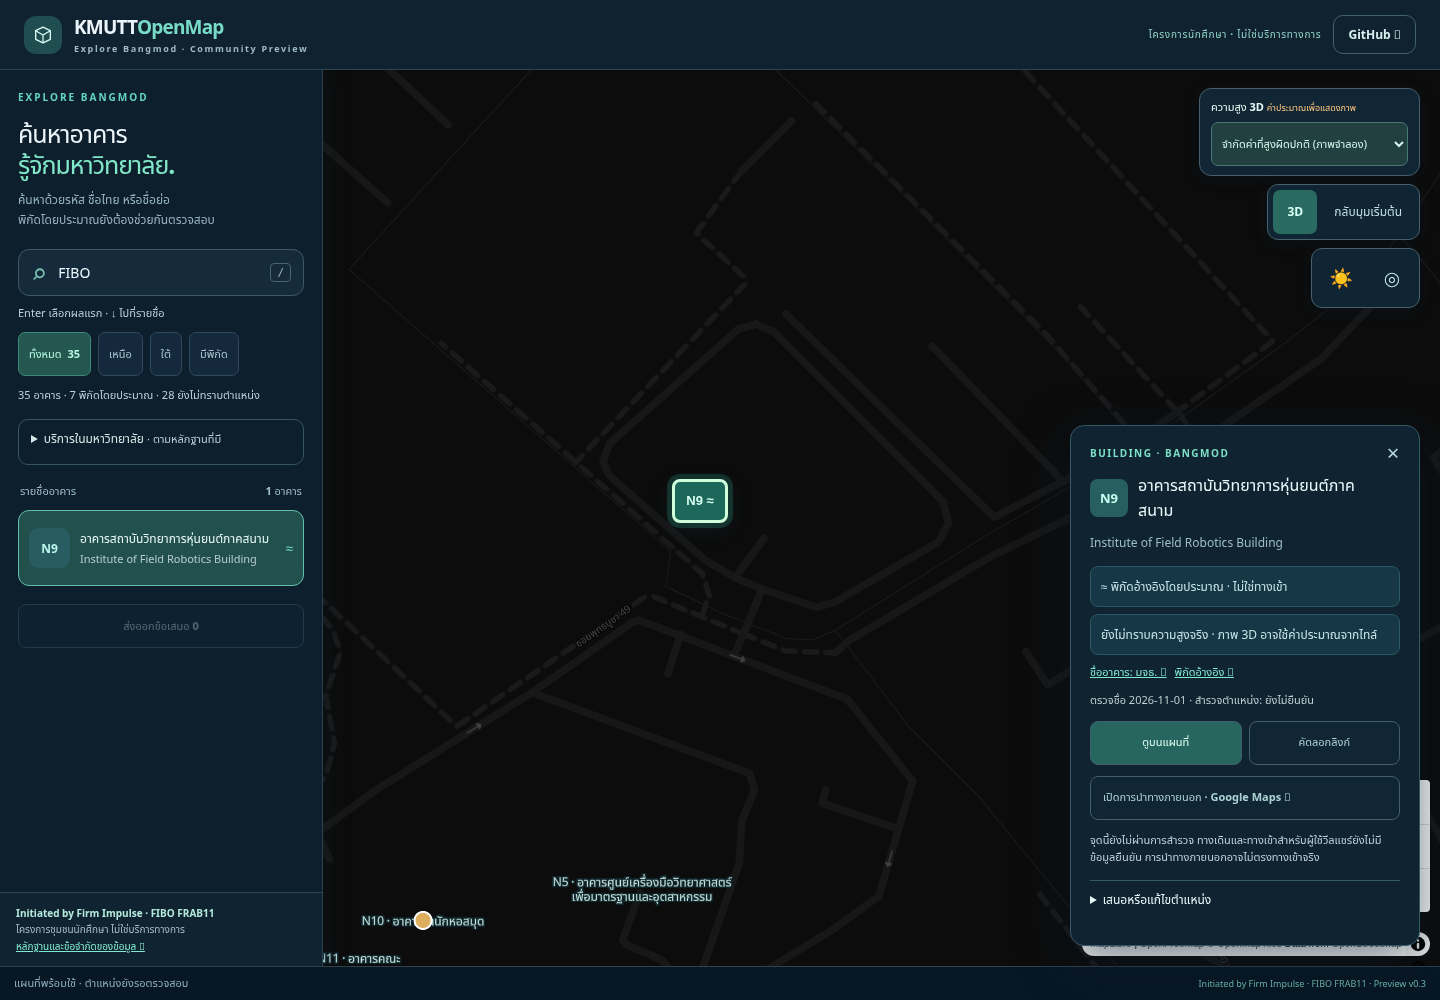
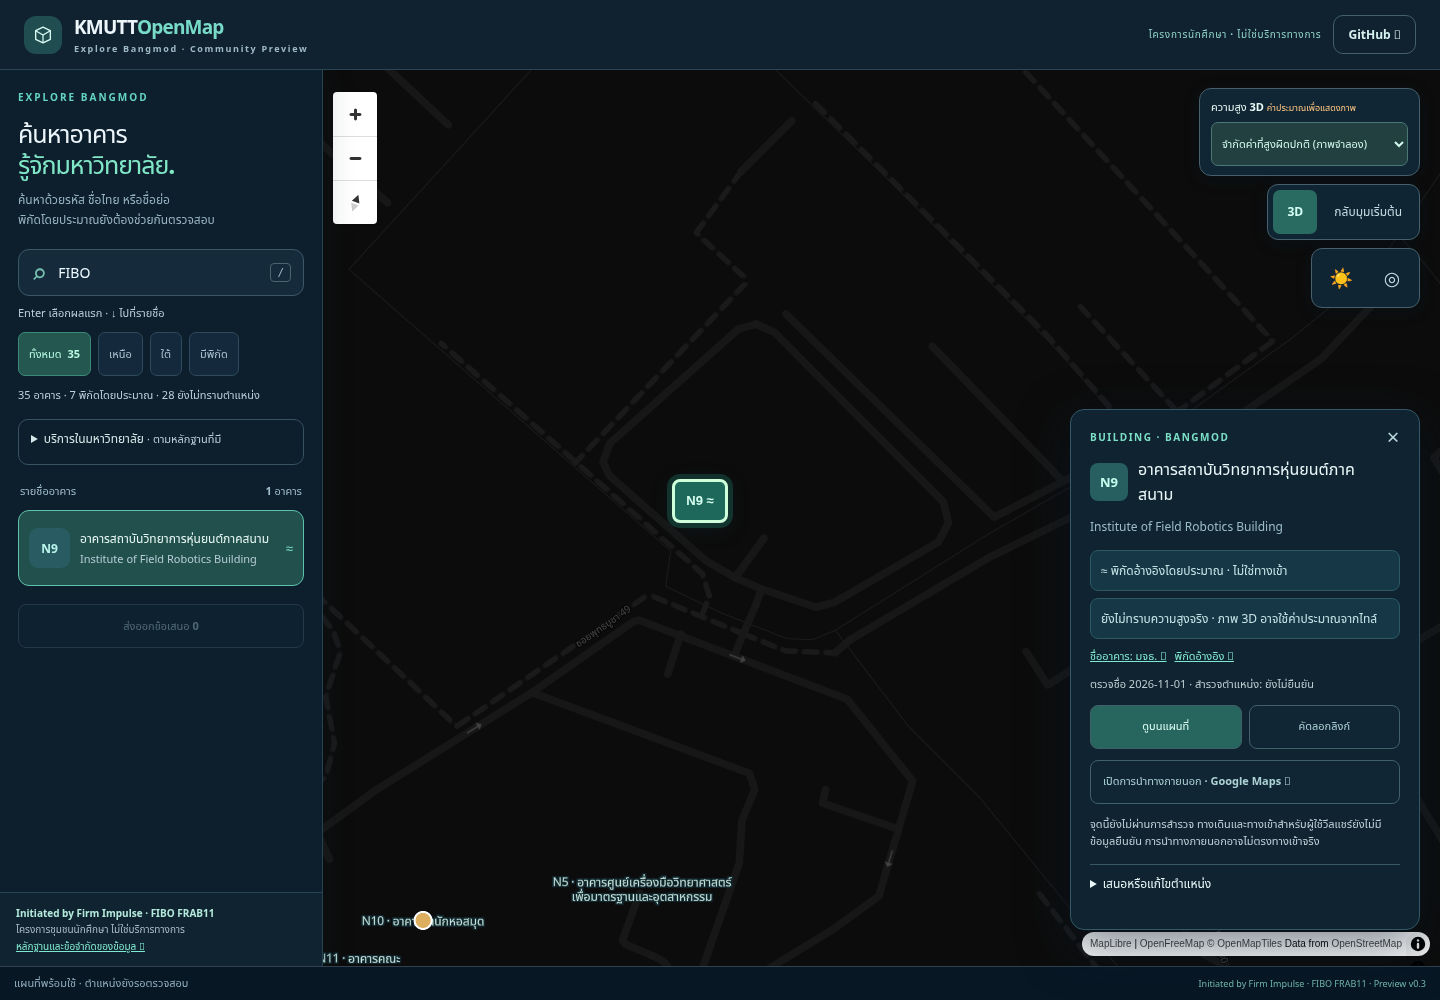
fix: keep map controls and attribution clear of detail panels

Changed region(s): [[0.7188, 0.403, 1.0, 0.961], [0.2188, 0.093, 0.2812, 0.248]]

diff --git a/src/styles.css b/src/styles.css
@@ -91,3 +91,8 @@ kbd{color:#9bb4c1;border:1px solid #4a6470;border-radius:4px;padding:2px 6px;fon
 @media(max-width:670px) and (min-height:541px){.detail{max-height:min(43dvh,calc(100dvh - 360px))}}
 @media(max-height:540px) and (max-width:900px){.detail{max-height:calc(100dvh - 130px)}.map-tools{right:350px;top:80px}}
 @media(max-height:540px) and (max-width:900px){.sidebar h1,.sidebar .intro,.sidebar .eyebrow{display:none}.sidebar-scroll{padding-top:12px}}
+/* Keep zoom/compass and attribution outside the information panels. */
+.detail{bottom:70px;max-height:calc(100dvh - 150px)}.maplibregl-ctrl-top-left{left:323px;top:12px}
+@media(max-width:900px) and (min-width:671px){.maplibregl-ctrl-top-left{left:290px}}
+@media(max-width:670px){.maplibregl-ctrl-top-left{left:0;top:20px}.maplibregl-ctrl-bottom-right{top:0;bottom:auto;max-width:100%}.maplibregl-ctrl-attrib{margin-top:0!important}.map-tools{top:90px}.detail{bottom:134px;max-height:min(43dvh,calc(100dvh - 360px))}}
+@media(max-height:540px) and (max-width:900px){.maplibregl-ctrl-top-left{left:280px;top:12px}.detail{bottom:45px;max-height:calc(100dvh - 130px)}}

diff --git a/docs/TEST-RESULTS.md b/docs/TEST-RESULTS.md
@@ -26,9 +26,9 @@ Browser fixture tests load the **real pinned MapLibre** library with controlled 
 
 ## Measured performance and limits
 
-Two live cloud runs: catalog ready 546–570 ms; map `load` event 4,099–4,447 ms from navigation start. This does **not** achieve the approximate 3-second map target. These are single-session, unthrottled cloud timings, not controlled mobile-network benchmarks. The load event is distinct from a formally defined first-interactive-map metric.
+Three live cloud runs: catalog ready 546–581 ms; map `load` event 3,655–4,447 ms from navigation start. This does **not** achieve the approximate 3-second map target. These are single-session, unthrottled cloud timings, not controlled mobile-network benchmarks. The load event is distinct from a formally defined first-interactive-map metric.
 
-500 local search calls over 35 entries: median about 0.2 ms, p95 about 0.4 ms in the recorded run. Initial JS heap snapshot approximately 27.6 MB; one sample cannot establish absence of long-term memory growth. Label/layer reuse and selected-marker count are regression checked. No representative-phone 30 FPS or long-session memory claim is made. Live warnings and raw measurements are in [qa/live-metrics.json](qa/live-metrics.json).
+500 local search calls over 35 entries: median about 0.2 ms, p95 about 0.4 ms in the recorded run. Initial JS heap snapshot approximately 28.4 MB; one sample cannot establish absence of long-term memory growth. Label/layer reuse and selected-marker count are regression checked. No representative-phone 30 FPS or long-session memory claim is made. Live warnings and raw measurements are in [qa/live-metrics.json](qa/live-metrics.json).
 
 ## Commands
 

diff --git a/docs/IMPLEMENTATION-HANDOFF.md b/docs/IMPLEMENTATION-HANDOFF.md
@@ -22,7 +22,7 @@ A typed evidence model, three sourced OSM footprint candidates, geometry validat
 | 3 Search/UX | Core flows implemented/tested | Physical-device/screen-reader acceptance remains; unknown geometry is disclosed |
 | 4 Places | Supported MVP implemented/tested | One approximate library; no documented schedules/restaurants/accessibility |
 | 5 Navigation | Foundation implemented/tested | No real route/origin-destination UI; graph/entrances remain empty |
-| 6 Reliability/performance | Failure paths and measurements tested; partial | Cloud map load ~4.1–4.45s; phone FPS/memory goals unproven |
+| 6 Reliability/performance | Failure paths and measurements tested; partial | Cloud map load ~3.65–4.45s; phone FPS/memory goals unproven |
 | 7 Review readiness | Tests/docs/CI/static staging prepared | PR remains unmerged for Codex A; cross-browser/device/GIS review outstanding |
 
 ## Technical decisions and change log
